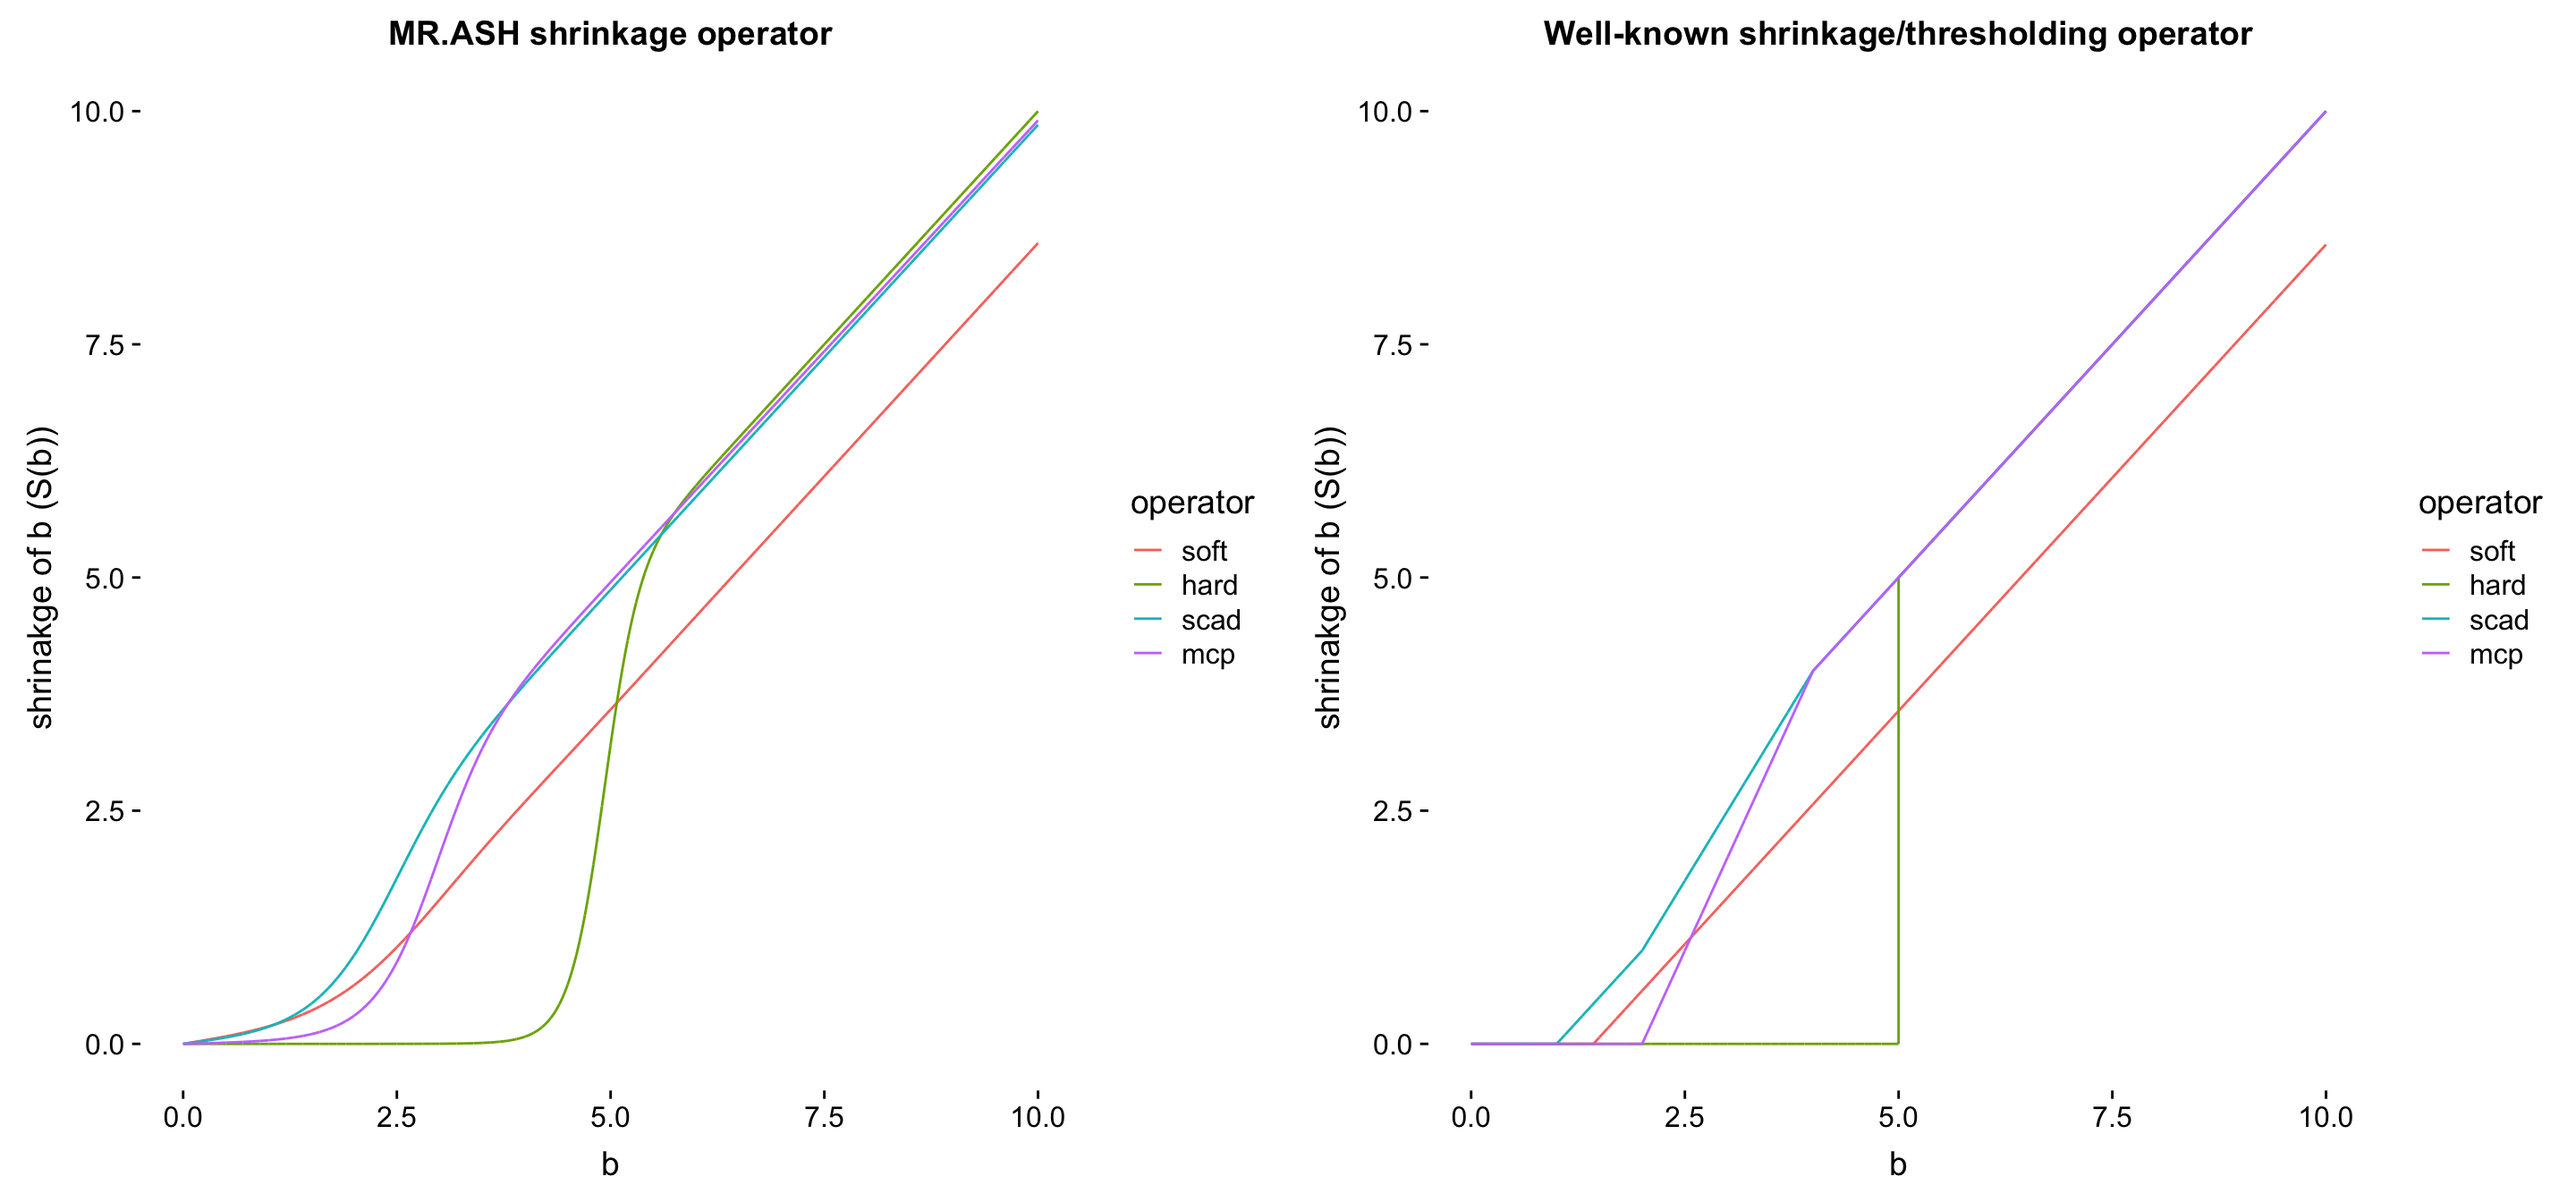
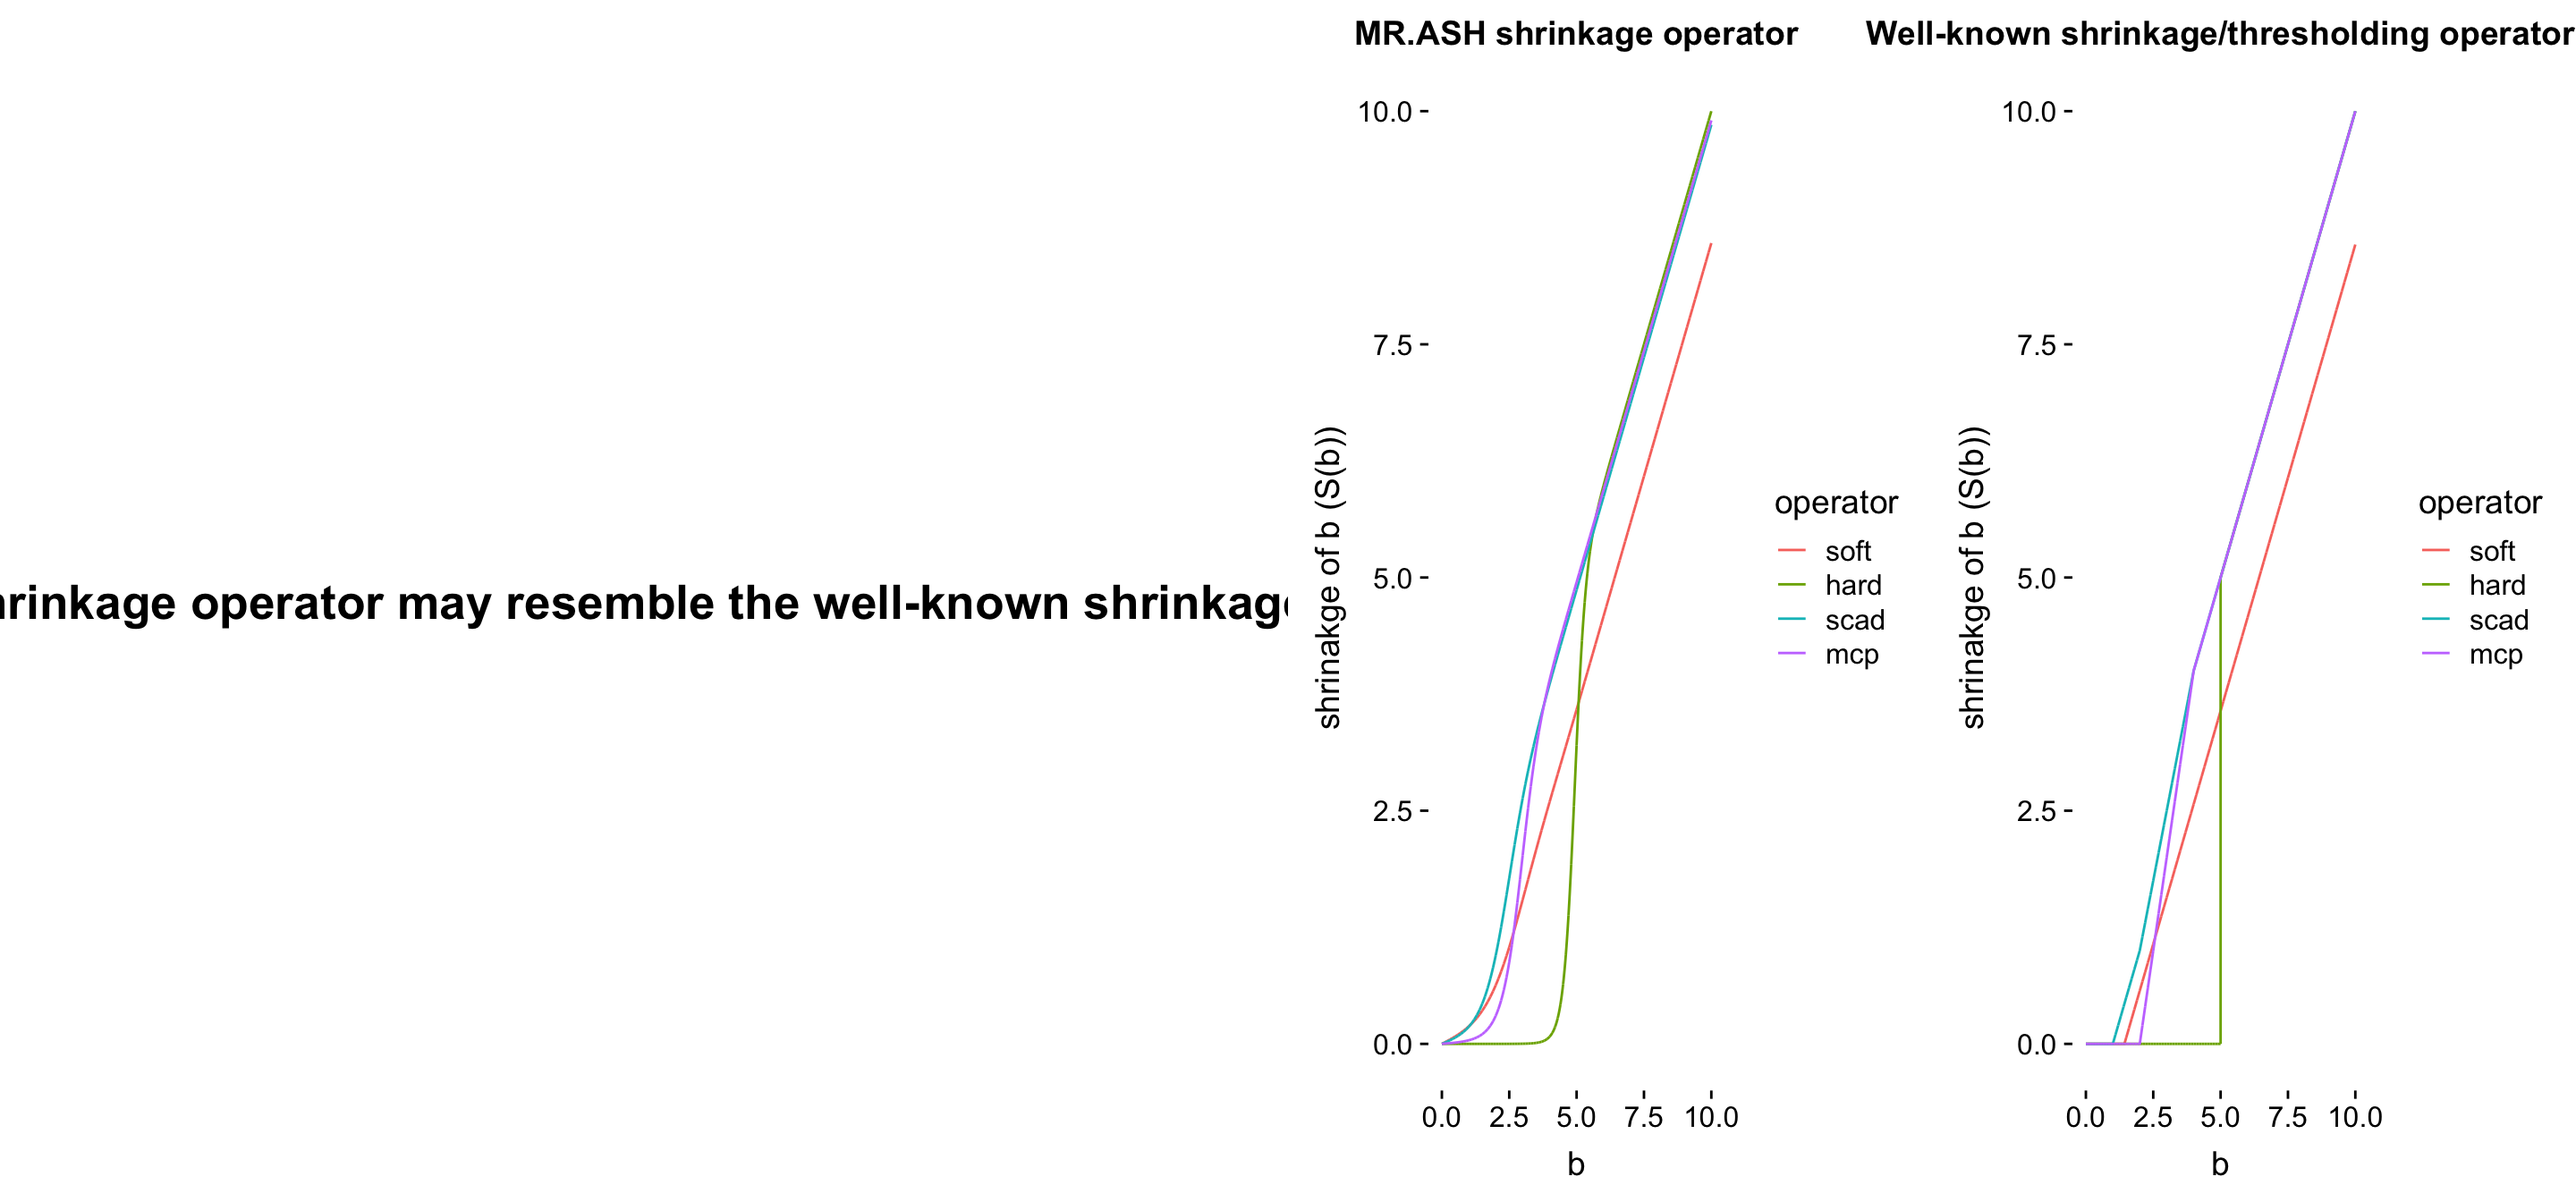
Build site.

diff --git a/docs/Plots_for_paper.html b/docs/Plots_for_paper.html
@@ -434,7 +434,7 @@ div.section {
 
 <p>
 <button type="button" class="btn btn-default btn-workflowr btn-workflowr-report" data-toggle="collapse" data-target="#workflowr-report">
-<span class="glyphicon glyphicon-list" aria-hidden="true"></span> workflowr <span class="glyphicon glyphicon-ok text-success" aria-hidden="true"></span>
+<span class="glyphicon glyphicon-list" aria-hidden="true"></span> workflowr <span class="glyphicon glyphicon-exclamation-sign text-danger" aria-hidden="true"></span>
 </button>
 </p>
 <div id="workflowr-report" class="collapse">
@@ -443,7 +443,7 @@ div.section {
 <a data-toggle="tab" href="#summary">Summary</a>
 </li>
 <li>
-<a data-toggle="tab" href="#checks"> Checks <span class="glyphicon glyphicon-ok text-success" aria-hidden="true"></span> </a>
+<a data-toggle="tab" href="#checks"> Checks <span class="glyphicon glyphicon-exclamation-sign text-danger" aria-hidden="true"></span> </a>
 </li>
 <li>
 <a data-toggle="tab" href="#versions">Past versions</a>
@@ -455,7 +455,7 @@ div.section {
 <strong>Last updated:</strong> 2019-10-23
 </p>
 <p>
-<strong>Checks:</strong> <span class="glyphicon glyphicon-ok text-success" aria-hidden="true"></span> 6 <span class="glyphicon glyphicon-exclamation-sign text-danger" aria-hidden="true"></span> 0
+<strong>Checks:</strong> <span class="glyphicon glyphicon-ok text-success" aria-hidden="true"></span> 5 <span class="glyphicon glyphicon-exclamation-sign text-danger" aria-hidden="true"></span> 1
 </p>
 <p>
 <strong>Knit directory:</strong> <code>mr-ash-workflow/</code> <span class="glyphicon glyphicon-question-sign" aria-hidden="true" title="This is the local directory in which the code in this file was executed."> </span>
@@ -471,12 +471,12 @@ This reproducible <a href="http://rmarkdown.rstudio.com">R Markdown</a> analysis
 <div class="panel panel-default">
 <div class="panel-heading">
 <p class="panel-title">
-<a data-toggle="collapse" data-parent="#workflowr-checks" href="#strongRMarkdownfilestronguptodate"> <span class="glyphicon glyphicon-ok text-success" aria-hidden="true"></span> <strong>R Markdown file:</strong> up-to-date </a>
+<a data-toggle="collapse" data-parent="#workflowr-checks" href="#strongRMarkdownfilestronguncommittedchanges"> <span class="glyphicon glyphicon-exclamation-sign text-danger" aria-hidden="true"></span> <strong>R Markdown file:</strong> uncommitted changes </a>
 </p>
 </div>
-<div id="strongRMarkdownfilestronguptodate" class="panel-collapse collapse">
+<div id="strongRMarkdownfilestronguncommittedchanges" class="panel-collapse collapse">
 <div class="panel-body">
-<p>Great! Since the R Markdown file has been committed to the Git repository, you know the exact version of the code that produced these results.</p>
+<p>The R Markdown file has unstaged changes. To know which version of the R Markdown file created these results, you’ll want to first commit it to the Git repo. If you’re still working on the analysis, you can ignore this warning. When you’re finished, you can run <code>wflow_publish</code> to commit the R Markdown file and build the HTML.</p>
 </div>
 </div>
 </div>
@@ -531,10 +531,10 @@ This reproducible <a href="http://rmarkdown.rstudio.com">R Markdown</a> analysis
 <div class="panel panel-default">
 <div class="panel-heading">
 <p class="panel-title">
-<a data-toggle="collapse" data-parent="#workflowr-checks" href="#strongRepositoryversionstrongahrefhttpsgithubcomstephenslabmrashworkflowtree0bf8aa633c4ba2161924eb1442d9079f6536511dtargetblank0bf8aa6a"> <span class="glyphicon glyphicon-ok text-success" aria-hidden="true"></span> <strong>Repository version:</strong> <a href="https://github.com/stephenslab/mr-ash-workflow/tree/0bf8aa633c4ba2161924eb1442d9079f6536511d" target="_blank">0bf8aa6</a> </a>
+<a data-toggle="collapse" data-parent="#workflowr-checks" href="#strongRepositoryversionstrongahrefhttpsgithubcomstephenslabmrashworkflowtreed75b2c977269475a43c68207bfe155e49b768337targetblankd75b2c9a"> <span class="glyphicon glyphicon-ok text-success" aria-hidden="true"></span> <strong>Repository version:</strong> <a href="https://github.com/stephenslab/mr-ash-workflow/tree/d75b2c977269475a43c68207bfe155e49b768337" target="_blank">d75b2c9</a> </a>
 </p>
 </div>
[2 lines of base64/hex data omitted]
 <div class="panel-body">
 <p>
 Great! You are using Git for version control. Tracking code development and connecting the code version to the results is critical for reproducibility. The version displayed above was the version of the Git repository at the time these results were generated. <br><br> Note that you need to be careful to ensure that all relevant files for the analysis have been committed to Git prior to generating the results (you can use <code>wflow_publish</code> or <code>wflow_git_commit</code>). workflowr only checks the R Markdown file, but you know if there are other scripts or data files that it depends on. Below is the status of the Git repository when the results were generated:
@@ -562,6 +562,7 @@ Untracked files:
     Untracked:  results/sparsesignal.RDS
 
 Unstaged changes:
+    Modified:   analysis/Plots_for_paper.Rmd
     Modified:   analysis/Result5_SparseSignal.Rmd
     Modified:   analysis/Result6_PVE.Rmd
     Modified:   analysis/index.Rmd
@@ -605,6 +606,23 @@ Message
 </tr>
 </thead>
 <tbody>
+<tr>
+<td>
+html
+</td>
+<td>
+<a href="https://rawcdn.githack.com/stephenslab/mr-ash-workflow/fabe6bc7bb0e4d2fe2e30a48e3a2cf8b9db6d909/docs/Plots_for_paper.html" target="_blank">fabe6bc</a>
+</td>
+<td>
+Youngseok Kim
+</td>
+<td>
+2019-10-23
+</td>
+<td>
+Build site.
+</td>
+</tr>
 <tr>
 <td>
 Rmd
@@ -819,6 +837,8 @@ p2 = ggplot(df) + geom_line(aes(x = b, y = sb2, color = operator)) +
   labs(y = &quot;shrinakge of b (S(b))&quot;, title = &quot;Well-known shrinkage/thresholding operator&quot;)
 
 fig = plot_grid(p1,p2, nrow = 1)
+title = ggdraw() + draw_label(&quot;MR.ASH Shrinkage operator may resemble the well-known shrinkage operators&quot;, fontface = &#39;bold&#39;, size = 20) 
+fig = plot_grid(title, fig, rel_heights = c(0.06,0.95))
 fig</code></pre>
 <p><img src="figure/Plots_for_paper.Rmd/fig1-1.png" width="1440" style="display: block; margin: auto;" /></p>
 <p>
@@ -843,6 +863,17 @@ Date
 </tr>
 </thead>
 <tbody>
+<tr>
+<td>
+<a href="https://github.com/stephenslab/mr-ash-workflow/blob/fabe6bc7bb0e4d2fe2e30a48e3a2cf8b9db6d909/docs/figure/Plots_for_paper.Rmd/fig1-1.png" target="_blank">fabe6bc</a>
+</td>
+<td>
+Youngseok Kim
+</td>
+<td>
+2019-10-23
+</td>
+</tr>
 <tr>
 <td>
 <a href="https://github.com/stephenslab/mr-ash-workflow/blob/1e3484c88d0e260c6920ba9440e13ded4f9fc840/docs/figure/Plots_for_paper.Rmd/fig1-1.png" target="_blank">1e3484c</a>
@@ -946,6 +977,17 @@ Date
 </tr>
 </thead>
 <tbody>
+<tr>
+<td>
+<a href="https://github.com/stephenslab/mr-ash-workflow/blob/fabe6bc7bb0e4d2fe2e30a48e3a2cf8b9db6d909/docs/figure/Plots_for_paper.Rmd/fig2-1.png" target="_blank">fabe6bc</a>
+</td>
+<td>
+Youngseok Kim
+</td>
+<td>
+2019-10-23
+</td>
+</tr>
 <tr>
 <td>
 <a href="https://github.com/stephenslab/mr-ash-workflow/blob/1e3484c88d0e260c6920ba9440e13ded4f9fc840/docs/figure/Plots_for_paper.Rmd/fig2-1.png" target="_blank">1e3484c</a>
